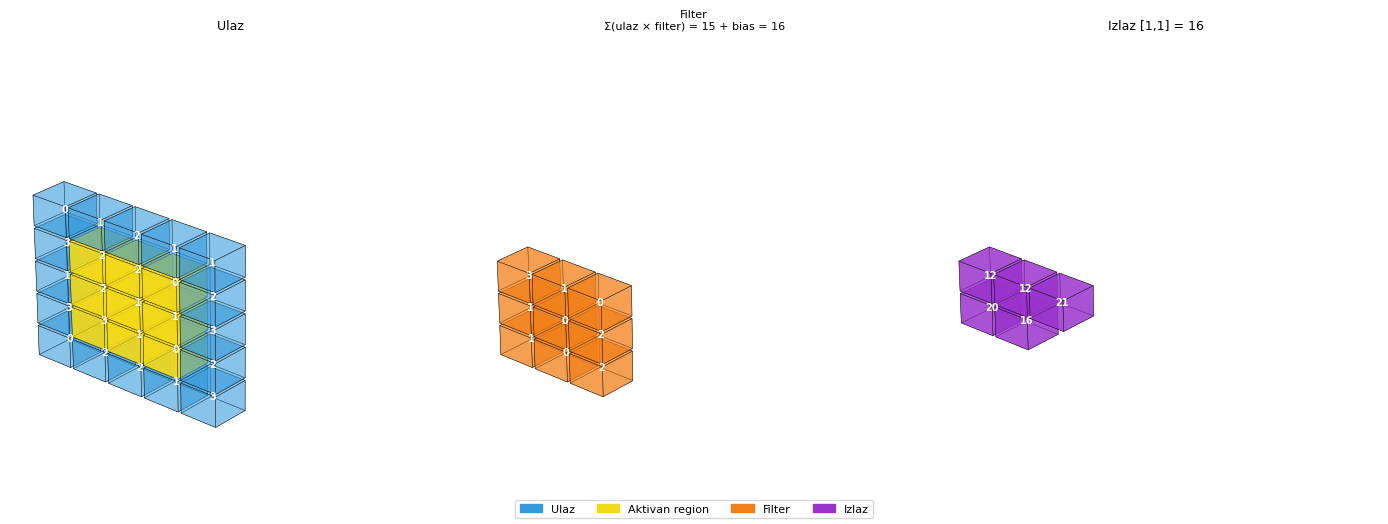
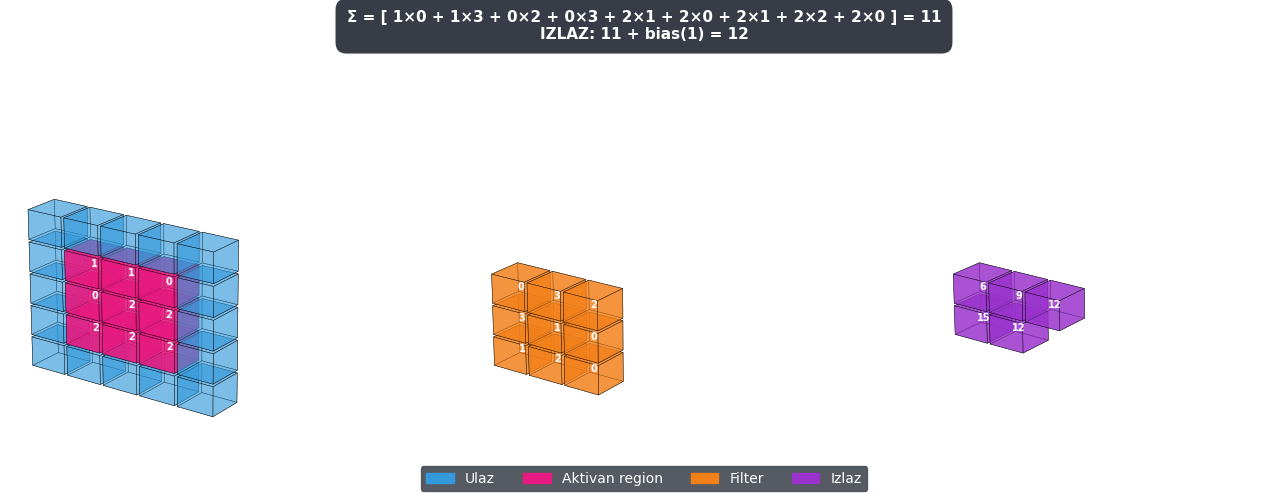
fixed layout

diff --git a/gui/app.py b/gui/app.py
@@ -48,23 +48,26 @@ class MainWindow(QMainWindow):
 
         # --- LEVI PANEL: Tabovi i Kontrole ---
         left_panel = QWidget()
-        left_panel.setFixedWidth(600)
+        # 1. POVEĆANA ŠIRINA NA 500px DA BI STAO FONT OD 25px!
+        left_panel.setFixedWidth(500)
         left_layout = QVBoxLayout(left_panel)
         left_layout.setContentsMargins(0, 0, 0, 0)
 
         self.tabs = QTabWidget()
-        #self.tabs.currentChanged.connect(self.on_tab_changed)
+        # 2. OVE DVE LINIJE FORSIRAJU TABOVE DA STANU BEZ STRELICA!
+        self.tabs.tabBar().setExpanding(True)
+        self.tabs.setUsesScrollButtons(False)
 
         # Tab 1: Konvolucija
         self.tab_conv = QWidget()
         self.setup_conv_controls(self.tab_conv)
         self.tabs.addTab(self.tab_conv, "Konvolucija")
 
-        # Tab 2: Pooling (Placeholder za sada)
+        # Tab 2: Pooling
         self.tab_pool = QWidget()
         self.tabs.addTab(self.tab_pool, "Pooling")
 
-        # Tab 3: Pattern (Placeholder za sada)
+        # Tab 3: Pattern
         self.tab_pattern = QWidget()
         self.tabs.addTab(self.tab_pattern, "Detekcija")
 
@@ -75,8 +78,7 @@ class MainWindow(QMainWindow):
         self.info_label.setAlignment(Qt.AlignTop | Qt.AlignLeft)
         self.info_label.setStyleSheet("""
             color: #98c379; 
-            font-size: 14px; 
-            font-weight: bold;
+            font-size: 25px; 
             padding: 15px; 
             border: 2px solid #3e4451; 
             border-radius: 6px;
@@ -99,16 +101,20 @@ class MainWindow(QMainWindow):
         playback_layout = QHBoxLayout()
 
         self.btn_prev = QPushButton("◄ Prethodni")
+        self.btn_prev.setStyleSheet("font-size: 20px")
         self.btn_prev.clicked.connect(self.on_prev)
 
         self.btn_auto = QPushButton("Auto ▶")
-        self.btn_auto.setStyleSheet("background-color: #235a39; color: white; font-weight: bold;")
+        self.btn_auto.setStyleSheet("background-color: #235a39; color: white; font-weight: bold; font-size: 20px")
         self.btn_auto.clicked.connect(self.on_auto)
 
         self.btn_next = QPushButton("Sledeći ►")
+        self.btn_next.setStyleSheet("font-size: 20px")
+
         self.btn_next.clicked.connect(self.on_next)
 
         self.btn_reset = QPushButton("↻ Reset")
+        self.btn_reset.setStyleSheet("font-size: 20px")
         self.btn_reset.clicked.connect(self.on_reset)
 
         self.progress_bar = QProgressBar()
@@ -131,36 +137,70 @@ class MainWindow(QMainWindow):
     # ---------------------------------------------------------
     def setup_conv_controls(self, parent_widget):
         """Pravi slajdere/spinboxeve za parametre konvolucije"""
-        layout = QFormLayout(parent_widget)
+        # Glavni vertikalni layout za ovaj tab
+        main_vbox = QVBoxLayout(parent_widget)
+        main_vbox.setContentsMargins(20, 20, 20, 20)
 
-        self.sp_conv_size = QSpinBox();
-        self.sp_conv_size.setRange(5, 10);
+        # Prazan prostor IZNAD (gura kontrole na sredinu)
+        main_vbox.addStretch()
+
+        # Layout za samu formu (Labele + Unosi)
+        form_layout = QFormLayout()
+        form_layout.setVerticalSpacing(20)  # Veliki razmak između redova
+        form_layout.setHorizontalSpacing(15)  # Razmak između teksta i polja za unos
+
+        self.sp_conv_size = QSpinBox()
+        self.sp_conv_size.setRange(5, 10)
         self.sp_conv_size.setValue(5)
-        self.sp_conv_chan = QSpinBox();
-        self.sp_conv_chan.setRange(1, 3);
+
+        self.sp_conv_chan = QSpinBox()
+        self.sp_conv_chan.setRange(1, 3)
         self.sp_conv_chan.setValue(1)
-        self.sp_conv_filt = QSpinBox();
-        self.sp_conv_filt.setRange(1, 5);
+
+        self.sp_conv_filt = QSpinBox()
+        self.sp_conv_filt.setRange(1, 5)
         self.sp_conv_filt.setValue(3)
-        self.sp_conv_stride = QSpinBox();
-        self.sp_conv_stride.setRange(1, 5);
+
+        self.sp_conv_stride = QSpinBox()
+        self.sp_conv_stride.setRange(1, 5)
         self.sp_conv_stride.setValue(1)
+
         self.chk_conv_pad = QCheckBox()
-        self.sp_conv_bias = QSpinBox();
-        self.sp_conv_bias.setRange(0, 3);
+
+        self.sp_conv_bias = QSpinBox()
+        self.sp_conv_bias.setRange(0, 3)
         self.sp_conv_bias.setValue(0)
 
-        layout.addRow("Dimenzija ulaza:", self.sp_conv_size)
-        layout.addRow("Broj kanala:", self.sp_conv_chan)
-        layout.addRow("Dimenzija filtera:", self.sp_conv_filt)
-        layout.addRow("Korak (stride):", self.sp_conv_stride)
-        layout.addRow("Bias:", self.sp_conv_bias)
-        layout.addRow("Padding", self.chk_conv_pad)
+        # Dodajemo redove u formu
+        form_layout.addRow("Dimenzija ulaza:", self.sp_conv_size)
+        form_layout.addRow("Broj kanala:", self.sp_conv_chan)
+        form_layout.addRow("Dimenzija filtera:", self.sp_conv_filt)
+        form_layout.addRow("Korak (stride):", self.sp_conv_stride)
+        form_layout.addRow("Bias:", self.sp_conv_bias)
+        form_layout.addRow("Padding:", self.chk_conv_pad)
 
+        # Dodajemo formu u glavni vertikalni layout
+        main_vbox.addLayout(form_layout)
+
+        # Dodatni prazan prostor između polja i dugmeta
+        main_vbox.addSpacing(20)
+
+        # Veliko, centrirano dugme
         btn_generate = QPushButton("Generiši novo")
-        btn_generate.setStyleSheet("background-color: #1d4077; color: white;")
+        btn_generate.setMinimumHeight(60)  # Veće i lakše za kliknuti
+        btn_generate.setStyleSheet("""
+            background-color: #528bff; 
+            color: white; 
+            font-size: 20px; 
+            font-weight: bold; 
+            border-radius: 5px;
+        """)
         btn_generate.clicked.connect(self.generate_convolution)
-        layout.addRow("", btn_generate)
+
+        main_vbox.addWidget(btn_generate)
+
+        # Prazan prostor ISPOD (gura kontrole na sredinu zajedno sa gornjim Stretch-om)
+        main_vbox.addStretch()
 
     def generate_convolution(self):
         """Pravi novi ConvolutionEngine na osnovu parametara i pokreće Animator"""
@@ -217,10 +257,10 @@ class MainWindow(QMainWindow):
         is_running = self.animator.toggle_auto()
         if is_running:
             self.btn_auto.setText("Pauza ⏸")
-            self.btn_auto.setStyleSheet("background-color: #8c2626; color: white; font-weight: bold;")
+            self.btn_auto.setStyleSheet("background-color: #8c2626; color: white; font-weight: bold; font-size: 20px")
         else:
             self.btn_auto.setText("Auto ▶")
-            self.btn_auto.setStyleSheet("background-color: #235a39; color: white; font-weight: bold;")
+            self.btn_auto.setStyleSheet("background-color: #235a39; color: white; font-weight: bold; font-size: 20px")
 
     def on_reset(self):
         if self.animator:
@@ -250,7 +290,7 @@ class MainWindow(QMainWindow):
         # Ažuriraj Info panel (ako Engine ima metodu get_info)
         if hasattr(self.engine, "get_info"):
             info = self.engine.get_info()
-            info_text = "TRENUTNI PARAMETRI:\n\n"
+            info_text = "Trenutni parametri:\n\n"
             for k, v in info.items():
                 info_text += f"• {k}: {v}\n"
             self.info_label.setText(info_text)

diff --git a/main.py b/main.py
@@ -9,22 +9,39 @@ def main():
 
     app.setStyle("Fusion")
     dark_stylesheet = """
-        QWidget { background-color: #1e2128; color: #d3d3d3; font-family: 'Segoe UI', Arial; font-size: 13px; }
-        QPushButton { background-color: #2c313c; border: 1px solid #3e4451; padding: 6px; border-radius: 4px; }
-        QPushButton:hover { background-color: #3e4451; border: 1px solid #528bff; }
-        QComboBox, QSpinBox { background-color: #2c313c; border: 1px solid #3e4451; padding: 5px; }
+        QWidget { background-color: #1e2128; color: #d3d3d3; font-family: 'Segoe UI', Arial; }
 
-        /* TABOVI - Siri i krupniji */
+        /* --- OGROMAN FONT ZA KONTROLE (22px - 25px) --- */
+        QLabel { font-size: 22px; } 
+        QSpinBox { 
+            background-color: #2c313c; 
+            border: 1px solid #3e4451; 
+            padding: 10px; 
+            font-size: 25px; /* Vaš traženi font za brojeve */
+            font-weight: bold;
+        }
+
+        /* CHECKBOX JE SADA TAKOĐE VEĆI DA PRATI TEKST OD 25px */
+        QCheckBox { font-size: 22px; }
+        QCheckBox::indicator { width: 25px; height: 25px; border: 2px solid #528bff; border-radius: 4px; background-color: #2c313c; }
+        QCheckBox::indicator:checked { background-color: #528bff; image: url(check.png); }
+
+        /* DUGMIĆI */
+        QPushButton { background-color: #2c313c; border: 1px solid #3e4451; padding: 6px; border-radius: 4px; font-size: 16px;}
+        QPushButton:hover { background-color: #021b75; border: 1px solid #528bff; }
+
+        /* --- TABOVI (Sređen razmak da stanu sva 3 taba na ekran) --- */
         QTabWidget::pane { border: 1px solid #3e4451; }
-        QTabBar::tab { background: #2c313c; padding: 12px 25px; margin-right: 2px; border: 1px solid #3e4451; min-width: 200px; font-size: 14px; font-weight: bold; }
-        QTabBar::tab:selected { background: #1e2128; border-bottom: 2px solid #528bff; color: #528bff; }
+        QTabBar::tab { 
+            background: #2c313c; 
+            padding: 15px 5px;   /* Smanjen horizontalni prostor po tabu */
+            border: 1px solid #3e4451; 
+            font-size: 16px; 
+            font-weight: bold; 
+        }
+        QTabBar::tab:selected { background: #1e2128; border-bottom: 3px solid #528bff; color: #528bff; }
 
-        /* CHECKBOX - Jasan okvir */
-        QCheckBox::indicator { width: 18px; height: 18px; border: 2px solid #528bff; border-radius: 4px; background-color: #2c313c; }
-        QCheckBox::indicator:checked { background-color: #528bff; image: url(check.png); } /* Qt interno generiše checkmark ako nema slike */
-        QCheckBox { font-size: 14px; }
-
-        QProgressBar { text-align: center; border: 1px solid #3e4451; background-color: #2c313c; font-weight: bold;}
+        QProgressBar { text-align: center; border: 1px solid #3e4451; background-color: #2c313c; font-weight: bold; font-size: 14px;}
         QProgressBar::chunk { background-color: #528bff; }
     """
     app.setStyleSheet(dark_stylesheet)